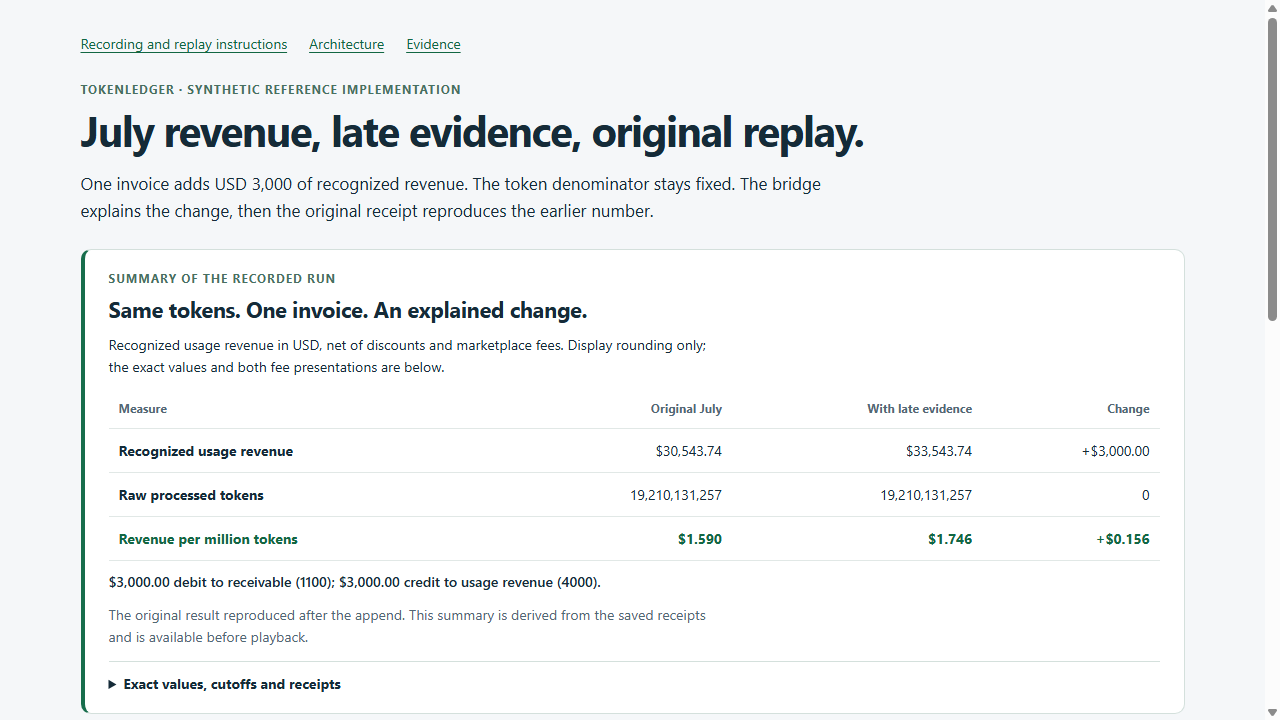
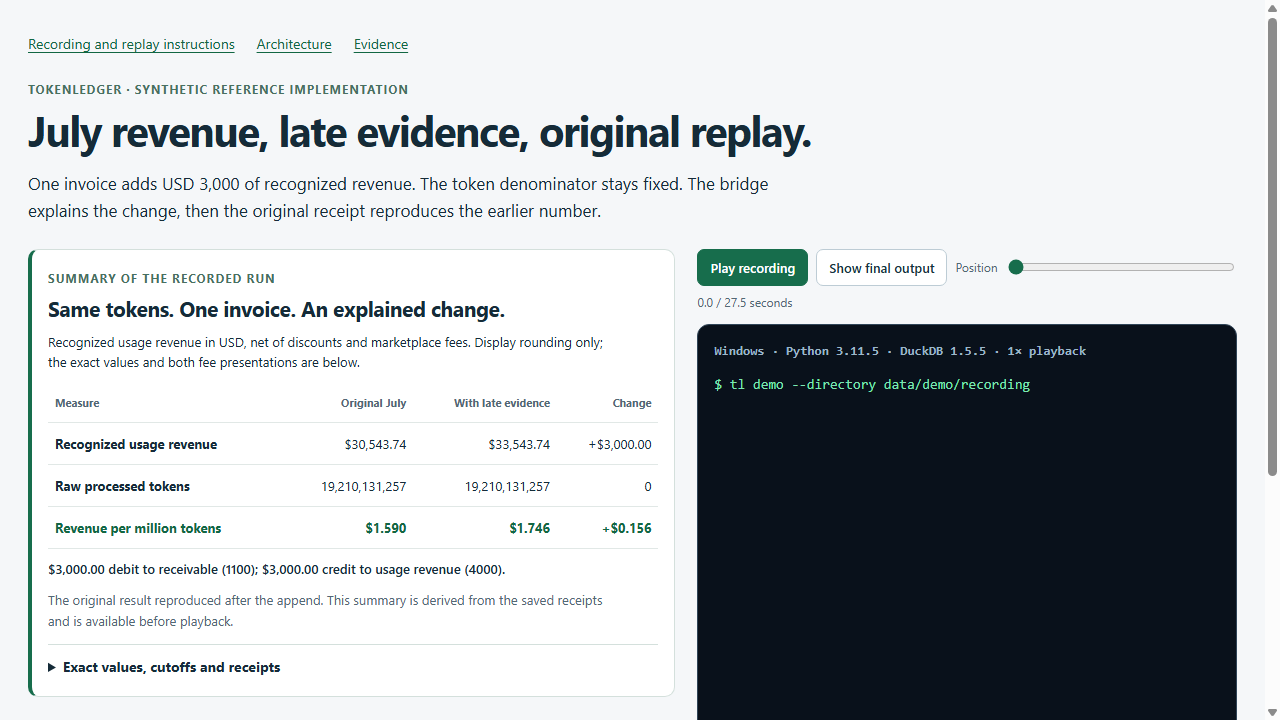
Keep recorded results visible alongside the console playback

diff --git a/docs/demo.html b/docs/demo.html
@@ -7,12 +7,15 @@
 :root{color-scheme:light;font-family:system-ui,-apple-system,Segoe UI,sans-serif;color:#152b38;background:#f5f7f9}*{box-sizing:border-box}body{margin:0}main{max-width:1160px;margin:0 auto;padding:34px 28px}a{color:#126743;text-underline-offset:3px}nav{font-size:14px;display:flex;gap:22px;margin-bottom:28px}.eyebrow{color:#477062;font-size:12px;font-weight:750;letter-spacing:.08em;text-transform:uppercase}h1{font-size:clamp(26px,3.5vw,42px);letter-spacing:-.035em;line-height:1.1;margin:10px 0 16px}p{line-height:1.6;max-width:82ch}.intro{font-size:17px;margin-bottom:24px}.controls{display:flex;align-items:center;flex-wrap:wrap;gap:12px;margin-bottom:14px}button{font:inherit;font-weight:600;padding:10px 17px;border:1px solid #bdccd5;border-radius:7px;background:white;color:#183240;cursor:pointer}button.primary{background:#176d4c;color:white;border-color:#176d4c}button:focus-visible,a:focus-visible,input:focus-visible{outline:3px solid #c1751d;outline-offset:3px}input[type=range]{min-width:130px;flex:1;accent-color:#176d4c}output{font-variant-numeric:tabular-nums;font-size:13px;color:#526875}.terminal{background:#09111b;color:#e6eef5;border:1px solid #304558;border-radius:12px;padding:20px 23px}.terminal h2{font:600 13px ui-monospace,Consolas,monospace;color:#9eb7c8;margin:0 0 18px}.prompt{color:#7ee6b3;font:14px ui-monospace,Consolas,monospace;overflow-wrap:anywhere}pre{font:13px/1.55 ui-monospace,Consolas,monospace;min-height:430px;margin:18px 0 0;white-space:pre-wrap;overflow-wrap:anywhere}.status{border-top:1px solid #304558;color:#a4bbcd;padding-top:12px;font-size:12px;font-variant-numeric:tabular-nums}.facts{display:flex;flex-wrap:wrap;gap:28px;font-size:13px;color:#526875;margin:18px 0}.notes{font-size:13px;color:#526875}code{font-size:.94em;overflow-wrap:anywhere}@media(max-width:600px){main{padding:24px 16px}.terminal{padding:16px 12px}nav{gap:16px}pre{font-size:12px;min-height:480px}.facts{gap:10px}.controls output{width:100%}}
 
 .summary{background:#fff;border:1px solid #d4e0dc;border-left:4px solid #176d4c;border-radius:10px;padding:20px 24px;margin-bottom:24px}.summary h2{font-size:22px;letter-spacing:-.02em;margin:8px 0}.summary p{margin:10px 0;font-size:14px}.summary table{width:100%;border-collapse:collapse;font-size:14px;font-variant-numeric:tabular-nums}.summary th,.summary td{padding:12px 10px;border-bottom:1px solid #e1e8e6;text-align:right;white-space:nowrap}.summary th:first-child{text-align:left;white-space:normal}.summary thead th{font-size:12px;color:#526875}.summary tbody tr:last-child{font-weight:750;color:#126743}.summary details{border-top:1px solid #d4e0dc;margin-top:12px;padding-top:12px}.summary summary{cursor:pointer;font-weight:650;font-size:14px}.summary pre{min-height:0;max-height:380px;overflow:auto;background:#f5f7f9;padding:16px;border-radius:6px}.summary .posting{font-weight:600}.table-wrap{overflow-x:auto}@media(max-width:600px){.summary{padding:18px 12px}.summary table{font-size:12px}.summary th,.summary td{padding:10px 6px}.summary h2{font-size:20px}}
+
+@media(min-width:1120px){main{max-width:1480px}.experience{display:grid;grid-template-columns:minmax(0,1.2fr) minmax(0,1fr);gap:22px;align-items:start}.summary{position:sticky;top:16px;margin:0;padding:20px 16px}.summary th,.summary td{padding:12px 7px;font-size:13px}.summary thead th{font-size:11px}.summary p{font-size:13px}.summary h2{font-size:21px}.playback{min-width:0}.terminal{padding:18px 16px}.terminal pre{font-size:12px;min-height:340px;max-height:530px;overflow:auto}.controls{gap:8px}.controls button{font-size:13px;padding:9px 12px}.controls output{font-size:12px}.facts{gap:8px;line-height:1.5}.playback .notes{font-size:12px}}
 </style>
 <main>
 <nav aria-label="Related documents"><a href="demo.md">Recording and replay instructions</a><a href="architecture/index.html">Architecture</a><a href="evidence.md">Evidence</a></nav>
 <div class="eyebrow">tokenledger · synthetic reference implementation</div>
 <h1>July revenue, late evidence, original replay.</h1>
 <p class="intro">One invoice adds USD 3,000 of recognized revenue. The token denominator stays fixed. The bridge explains the change, then the original receipt reproduces the earlier number.</p>
+<div class="experience">
 <section class="summary" aria-labelledby="summary-title">
 <div class="eyebrow">Summary of the recorded run</div>
 <h2 id="summary-title">Same tokens. One invoice. An explained change.</h2>
@@ -110,6 +113,7 @@
 }</pre>
 <p><a href="assets/demo-summary.json">Download summary and source bindings</a> · <a href="demo.md">Reproduce these receipts</a></p></details>
 </section>
+<section class="playback" aria-label="Recording player">
 <div class="controls">
 <button class="primary" id="play">Play recording</button>
 <button id="show-final">Show final output</button>
@@ -125,6 +129,8 @@
 <div class="facts"><span>Workflow: <strong>23.224 seconds</strong></span><span>Process including startup: <strong>27.498 seconds</strong></span><span>Fresh-venv installation: <strong>59.623 seconds</strong></span></div>
 <p class="notes">Actual merged stdout/stderr captured from the process, without a PTY. Seeking changes the playback position; it does not alter the saved capture. Installation used the existing pip cache. A retained-population verifier was active on the same laptop. These are local observations, not a hosted-runtime or architecture-speed guarantee.</p>
 <p class="notes"><a href="assets/recording/demo.txt">Complete transcript</a> · <a href="assets/recording/demo.cast" download>Raw timestamped capture</a> · <a href="assets/recording/recording.json">Capture record</a>. Public execution <code>825696cf31d4c2892078512e612840d791fba2ba</code>. Use the retained fixture and receipt command in the <a href="demo.md">replay instructions</a> to verify the number yourself.</p>
+</section>
+</div>
 </main>
 <script type="application/json" id="captured-output">[[4.085231, "o", "Generate an isolated synthetic business through the validated writer.\r\n"], [5.995361, "o", "Report July with native views and receipts. All generated late arrivals are already known.\r\n"], [11.21635, "o", "Append the missing July invoice, then report the same July with later knowledge.\r\n"], [14.723647, "o", "Reperform both close populations and derive a balanced, receipt-backed account bridge.\r\n"], [17.834147, "o", "Reperform recognized usage revenue per million tokens and explain its change with the same invoice.\r\n"], [23.431006, "o", "Reproduce every original KPI population after the append; render the original pack from those saved rows.\r\n"], [27.366763, "o", "July recognized usage revenue per million tokens (USD/Mtok):\r\n"], [27.366817, "o", "Recognized usage revenue, net of discounts and marketplace fees; alternative before marketplace fees also shown.\r\nRaw processed tokens: input, output, cache_read and cache_write, each counted once with unit weight.\r\nNet of discounts and fees: 1.589980807074 -> 1.746148402176 (delta 0.156167595102 USD/Mtok)\r\n"], [27.366835, "o", "Net of discounts: 1.591858462126 -> 1.748026057228 (delta 0.156167595102 USD/Mtok)\r\n"], [27.366851, "o", "Tokens unchanged: 19210131257; recognized revenue change: 300000 USD cents\r\n"], [27.366872, "o", "Yield bridge receipt: mr-6d034188f55d99445ea47b08127c5a74\r\n"], [27.366929, "o", "July account bridge (integer cents; debit positive, credit negative):\r\n"], [27.366948, "o", "2026-07-01 1100: 2336949 -> 2636949 (+300000)\r\n"], [27.366961, "o", "2026-07-01 4000: -3057981 -> -3357981 (-300000)\r\n"], [27.367051, "o", "Bridge receipt: mr-9df23dbedb0794a5e5c35d9b816f654e\r\n"], [27.367089, "o", "Original yield receipt reproduced: mr-a57e47711e3b91ca3ef32885f5737e63\r\nWorkflow: 23.224s; observation mr-e152a368dd26fe7ef6459e10db26be6e\r\n"], [27.367164, "o", "Open: C:\\tokenledger-demo\\rc5-825696c\\data\\demo\\recording\\README.md\r\n"]]</script>
 <script>

diff --git a/docs/presentation/demo.template.html b/docs/presentation/demo.template.html
@@ -7,13 +7,17 @@
 :root{color-scheme:light;font-family:system-ui,-apple-system,Segoe UI,sans-serif;color:#152b38;background:#f5f7f9}*{box-sizing:border-box}body{margin:0}main{max-width:1160px;margin:0 auto;padding:34px 28px}a{color:#126743;text-underline-offset:3px}nav{font-size:14px;display:flex;gap:22px;margin-bottom:28px}.eyebrow{color:#477062;font-size:12px;font-weight:750;letter-spacing:.08em;text-transform:uppercase}h1{font-size:clamp(26px,3.5vw,42px);letter-spacing:-.035em;line-height:1.1;margin:10px 0 16px}p{line-height:1.6;max-width:82ch}.intro{font-size:17px;margin-bottom:24px}.controls{display:flex;align-items:center;flex-wrap:wrap;gap:12px;margin-bottom:14px}button{font:inherit;font-weight:600;padding:10px 17px;border:1px solid #bdccd5;border-radius:7px;background:white;color:#183240;cursor:pointer}button.primary{background:#176d4c;color:white;border-color:#176d4c}button:focus-visible,a:focus-visible,input:focus-visible{outline:3px solid #c1751d;outline-offset:3px}input[type=range]{min-width:130px;flex:1;accent-color:#176d4c}output{font-variant-numeric:tabular-nums;font-size:13px;color:#526875}.terminal{background:#09111b;color:#e6eef5;border:1px solid #304558;border-radius:12px;padding:20px 23px}.terminal h2{font:600 13px ui-monospace,Consolas,monospace;color:#9eb7c8;margin:0 0 18px}.prompt{color:#7ee6b3;font:14px ui-monospace,Consolas,monospace;overflow-wrap:anywhere}pre{font:13px/1.55 ui-monospace,Consolas,monospace;min-height:430px;margin:18px 0 0;white-space:pre-wrap;overflow-wrap:anywhere}.status{border-top:1px solid #304558;color:#a4bbcd;padding-top:12px;font-size:12px;font-variant-numeric:tabular-nums}.facts{display:flex;flex-wrap:wrap;gap:28px;font-size:13px;color:#526875;margin:18px 0}.notes{font-size:13px;color:#526875}code{font-size:.94em;overflow-wrap:anywhere}@media(max-width:600px){main{padding:24px 16px}.terminal{padding:16px 12px}nav{gap:16px}pre{font-size:12px;min-height:480px}.facts{gap:10px}.controls output{width:100%}}
 
 .summary{background:#fff;border:1px solid #d4e0dc;border-left:4px solid #176d4c;border-radius:10px;padding:20px 24px;margin-bottom:24px}.summary h2{font-size:22px;letter-spacing:-.02em;margin:8px 0}.summary p{margin:10px 0;font-size:14px}.summary table{width:100%;border-collapse:collapse;font-size:14px;font-variant-numeric:tabular-nums}.summary th,.summary td{padding:12px 10px;border-bottom:1px solid #e1e8e6;text-align:right;white-space:nowrap}.summary th:first-child{text-align:left;white-space:normal}.summary thead th{font-size:12px;color:#526875}.summary tbody tr:last-child{font-weight:750;color:#126743}.summary details{border-top:1px solid #d4e0dc;margin-top:12px;padding-top:12px}.summary summary{cursor:pointer;font-weight:650;font-size:14px}.summary pre{min-height:0;max-height:380px;overflow:auto;background:#f5f7f9;padding:16px;border-radius:6px}.summary .posting{font-weight:600}.table-wrap{overflow-x:auto}@media(max-width:600px){.summary{padding:18px 12px}.summary table{font-size:12px}.summary th,.summary td{padding:10px 6px}.summary h2{font-size:20px}}
+
+@media(min-width:1120px){main{max-width:1480px}.experience{display:grid;grid-template-columns:minmax(0,1.2fr) minmax(0,1fr);gap:22px;align-items:start}.summary{position:sticky;top:16px;margin:0;padding:20px 16px}.summary th,.summary td{padding:12px 7px;font-size:13px}.summary thead th{font-size:11px}.summary p{font-size:13px}.summary h2{font-size:21px}.playback{min-width:0}.terminal{padding:18px 16px}.terminal pre{font-size:12px;min-height:340px;max-height:530px;overflow:auto}.controls{gap:8px}.controls button{font-size:13px;padding:9px 12px}.controls output{font-size:12px}.facts{gap:8px;line-height:1.5}.playback .notes{font-size:12px}}
 </style>
 <main>
 <nav aria-label="Related documents"><a href="demo.md">Recording and replay instructions</a><a href="architecture/index.html">Architecture</a><a href="evidence.md">Evidence</a></nav>
 <div class="eyebrow">tokenledger · synthetic reference implementation</div>
 <h1>July revenue, late evidence, original replay.</h1>
 <p class="intro">One invoice adds USD 3,000 of recognized revenue. The token denominator stays fixed. The bridge explains the change, then the original receipt reproduces the earlier number.</p>
+<div class="experience">
 <!-- RECORDED_SUMMARY -->
+<section class="playback" aria-label="Recording player">
 <div class="controls">
 <button class="primary" id="play">Play recording</button>
 <button id="show-final">Show final output</button>
@@ -29,6 +33,8 @@
 <div class="facts"><span>Workflow: <strong>23.224 seconds</strong></span><span>Process including startup: <strong>27.498 seconds</strong></span><span>Fresh-venv installation: <strong>59.623 seconds</strong></span></div>
 <p class="notes">Actual merged stdout/stderr captured from the process, without a PTY. Seeking changes the playback position; it does not alter the saved capture. Installation used the existing pip cache. A retained-population verifier was active on the same laptop. These are local observations, not a hosted-runtime or architecture-speed guarantee.</p>
 <p class="notes"><a href="assets/recording/demo.txt">Complete transcript</a> · <a href="assets/recording/demo.cast" download>Raw timestamped capture</a> · <a href="assets/recording/recording.json">Capture record</a>. Public execution <code>825696cf31d4c2892078512e612840d791fba2ba</code>. Use the retained fixture and receipt command in the <a href="demo.md">replay instructions</a> to verify the number yourself.</p>
+</section>
+</div>
 </main>
 <script type="application/json" id="captured-output">[[4.085231, "o", "Generate an isolated synthetic business through the validated writer.\r\n"], [5.995361, "o", "Report July with native views and receipts. All generated late arrivals are already known.\r\n"], [11.21635, "o", "Append the missing July invoice, then report the same July with later knowledge.\r\n"], [14.723647, "o", "Reperform both close populations and derive a balanced, receipt-backed account bridge.\r\n"], [17.834147, "o", "Reperform recognized usage revenue per million tokens and explain its change with the same invoice.\r\n"], [23.431006, "o", "Reproduce every original KPI population after the append; render the original pack from those saved rows.\r\n"], [27.366763, "o", "July recognized usage revenue per million tokens (USD/Mtok):\r\n"], [27.366817, "o", "Recognized usage revenue, net of discounts and marketplace fees; alternative before marketplace fees also shown.\r\nRaw processed tokens: input, output, cache_read and cache_write, each counted once with unit weight.\r\nNet of discounts and fees: 1.589980807074 -> 1.746148402176 (delta 0.156167595102 USD/Mtok)\r\n"], [27.366835, "o", "Net of discounts: 1.591858462126 -> 1.748026057228 (delta 0.156167595102 USD/Mtok)\r\n"], [27.366851, "o", "Tokens unchanged: 19210131257; recognized revenue change: 300000 USD cents\r\n"], [27.366872, "o", "Yield bridge receipt: mr-6d034188f55d99445ea47b08127c5a74\r\n"], [27.366929, "o", "July account bridge (integer cents; debit positive, credit negative):\r\n"], [27.366948, "o", "2026-07-01 1100: 2336949 -> 2636949 (+300000)\r\n"], [27.366961, "o", "2026-07-01 4000: -3057981 -> -3357981 (-300000)\r\n"], [27.367051, "o", "Bridge receipt: mr-9df23dbedb0794a5e5c35d9b816f654e\r\n"], [27.367089, "o", "Original yield receipt reproduced: mr-a57e47711e3b91ca3ef32885f5737e63\r\nWorkflow: 23.224s; observation mr-e152a368dd26fe7ef6459e10db26be6e\r\n"], [27.367164, "o", "Open: C:\\tokenledger-demo\\rc5-825696c\\data\\demo\\recording\\README.md\r\n"]]</script>
 <script>

diff --git a/docs/verification/evaluator-followups/README.md b/docs/verification/evaluator-followups/README.md
@@ -20,6 +20,7 @@ The retained large-population checks remain separately scoped evidence.
   Revenue, tokens and yield use readable display precision; full values, fee
   bases, signed cents and receipt identities remain accessible. The original
   recording and timing are unchanged. Seeking back now labels the button correctly.
+  On desktop, the summary stays beside the console during playback and scrolling.
 - A blank answer, field schema and workflow guide distinguish ordinary reporting
   and replay from verification of the visible reference answer. The grader and
   its tolerances are unchanged.
@@ -33,6 +34,11 @@ The complete shipped suite passed: **72 tests**, with **79 existing deprecation
 warnings**, in **137.58 seconds** on this run. The executable, definitions,
 baseline, frozen challenge and recorded artifacts are unchanged from the
 reviewed candidate. Presentation generation is checked in Linux/Windows CI.
+
+After the desktop layout follow-up, the full suite passed again: 72 tests and
+79 warnings in 257.91 seconds, with other builder work occurring on the laptop.
+These are test-run observations, not a performance comparison. JSON Schema
+validation accepted the reference answer and rejected the blank placeholders.
 
 [Seventeen workflow commands](workflow-check.json) passed. Fresh original and
 current yield populations, and NRR v2/v3 populations, matched their retained
@@ -55,6 +61,8 @@ exact final transcript checks passed. These are bounded Chrome checks, not an
 exhaustive accessibility audit. Export formats were not rerun.
 
 ![Recorded values visible before playback](player-opening.png)
+
+![Summary stays beside the authentic final output](player-desktop-final.png)
 
 ![Finder remains in the viewport after scrolling and zooming](finder-scrolled-light.png)
 
